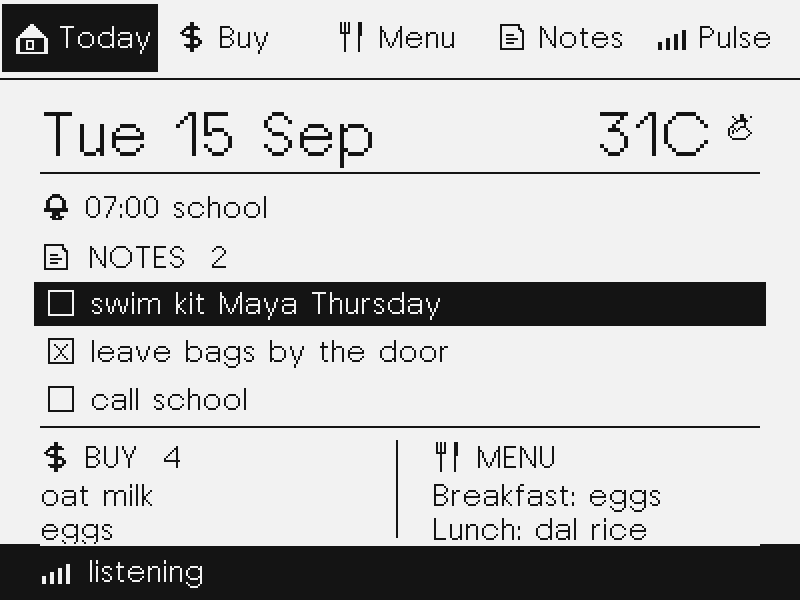
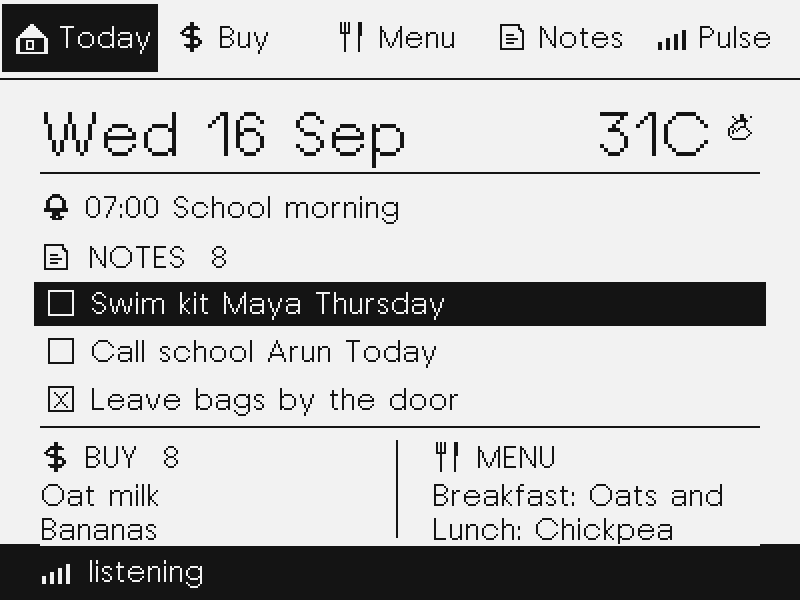
Refresh simulator demo screenshots

diff --git a/sim/sim_main.cc b/sim/sim_main.cc
@@ -135,38 +135,54 @@ HearthState MakeToday() {
     std::snprintf(s.wifi_status, sizeof(s.wifi_status), "Hearth-demo  -48 dBm");
     std::snprintf(s.hub, sizeof(s.hub), "http://hub.local:8790");
     std::snprintf(s.transcript, sizeof(s.transcript),
-                  "we are out of oat milk");
+                  "add oat milk to the shopping list");
     std::snprintf(s.note, sizeof(s.note), "HEARTH v0.9.1-hearth");
-    std::snprintf(s.date, sizeof(s.date), "Tue 15 Sep");
+    std::snprintf(s.date, sizeof(s.date), "Wed 16 Sep");
     std::snprintf(s.weather, sizeof(s.weather), "31C  partly cloudy  21-31");
     std::snprintf(s.wx, sizeof(s.wx), "partly");
-    std::snprintf(s.meal, sizeof(s.meal), "pasta");
+    std::snprintf(s.meal, sizeof(s.meal), "Noodle soup");
     std::snprintf(s.ack, sizeof(s.ack), "Added oat milk to Buy.");
-    std::snprintf(s.n_buy, sizeof(s.n_buy), "4");
-    std::snprintf(s.n_notes, sizeof(s.n_notes), "2");
-    std::snprintf(s.buy[0], sizeof(s.buy[0]), "oat milk");
-    std::snprintf(s.buy[1], sizeof(s.buy[1]), "eggs");
-    std::snprintf(s.peek_buy[0], sizeof(s.peek_buy[0]), "oat milk");
-    std::snprintf(s.peek_buy[1], sizeof(s.peek_buy[1]), "eggs");
-    std::snprintf(s.peek_menu[0], sizeof(s.peek_menu[0]), "Breakfast: eggs");
-    std::snprintf(s.peek_menu[1], sizeof(s.peek_menu[1]), "Lunch: dal rice");
-    std::snprintf(s.notes[0], sizeof(s.notes[0]), "swim kit  Maya  Thursday");
-    std::snprintf(s.notes[1], sizeof(s.notes[1]), "leave bags by the door");
-    std::snprintf(s.notes[2], sizeof(s.notes[2]), "call school");
-    s.notes_done[1] = true;
-    std::snprintf(s.alarm, sizeof(s.alarm), "07:00 school");
+    std::snprintf(s.n_buy, sizeof(s.n_buy), "8");
+    std::snprintf(s.n_notes, sizeof(s.n_notes), "8");
+    constexpr const char* kBuy[] = {"Oat milk", "Eggs", "Bananas", "Rice", "Tomatoes",
+                                    "Coffee beans", "Dish soap", "Fresh flowers", "Bread", "Olive oil"};
+    for (int i = 0; i < 10; ++i)
+        std::snprintf(s.buy[i], sizeof(s.buy[i]), "%s", kBuy[i]);
+    s.buy_done[1] = true;
+    s.buy_done[8] = true;
+    std::snprintf(s.peek_buy[0], sizeof(s.peek_buy[0]), "Oat milk");
+    std::snprintf(s.peek_buy[1], sizeof(s.peek_buy[1]), "Bananas");
+    std::snprintf(s.peek_menu[0], sizeof(s.peek_menu[0]), "Breakfast: Oats and banana");
+    std::snprintf(s.peek_menu[1], sizeof(s.peek_menu[1]), "Lunch: Chickpea bowls");
+    constexpr const char* kNotes[] = {
+        "Swim kit  Maya  Thursday", "Call school  Arun  Today", "Leave bags by the door",
+        "Water the plants  Saturday", "Library books  Maya  Friday",
+        "Grandma visits on Sunday  Sunday", "Book dentist appointment  Arun  Next week",
+        "Rain jackets  Tomorrow", "Spare key is in the drawer", "Put recycling out  Wednesday"};
+    for (int i = 0; i < 10; ++i)
+        std::snprintf(s.notes[i], sizeof(s.notes[i]), "%s", kNotes[i]);
+    s.notes_done[2] = true;
+    s.notes_done[9] = true;
+    std::snprintf(s.alarm, sizeof(s.alarm), "07:00 School morning");
     s.alarm_h = 7;
     s.alarm_m = 0;
-    std::snprintf(s.menu[0], sizeof(s.menu[0]), "Breakfast: eggs");
-    std::snprintf(s.menu_id[0], sizeof(s.menu_id[0]), "tue/breakfast");
-    std::snprintf(s.menu[1], sizeof(s.menu[1]), "Lunch: dal rice");
-    std::snprintf(s.menu_id[1], sizeof(s.menu_id[1]), "tue/lunch");
-    std::snprintf(s.menu[2], sizeof(s.menu[2]), "Dinner: pasta");
-    std::snprintf(s.menu_id[2], sizeof(s.menu_id[2]), "tue/dinner");
-    std::snprintf(s.menu[3], sizeof(s.menu[3]), "Dinner: pasta");
-    std::snprintf(s.menu_id[3], sizeof(s.menu_id[3]), "wed/dinner");
-    std::snprintf(s.menu[4], sizeof(s.menu[4]), "Lunch: lemon rice");
-    std::snprintf(s.menu_id[4], sizeof(s.menu_id[4]), "thu/lunch");
+    constexpr const char* kDays[] = {"mon", "tue", "wed", "thu", "fri", "sat", "sun"};
+    constexpr const char* kMeals[][3] = {
+        {"Yogurt and berries", "Dal rice", "Pasta and salad"},
+        {"Toast and eggs", "Veg wraps", "Paneer curry"},
+        {"Oats and banana", "Chickpea bowls", "Noodle soup"},
+        {"Idli and chutney", "Lemon rice", "Roast vegetables"},
+        {"Fruit and granola", "Sandwiches", "Pizza night"},
+        {"Pancakes", "Leftover bowls", "Tacos"},
+        {"Poha", "Family lunch", "Khichdi"}};
+    constexpr const char* kSlots[] = {"breakfast", "lunch", "dinner"};
+    constexpr const char* kLabels[] = {"Breakfast", "Lunch", "Dinner"};
+    for (int day = 0; day < 7; ++day)
+        for (int slot = 0; slot < 3; ++slot) {
+            const int i = day * 3 + slot;
+            std::snprintf(s.menu[i], sizeof(s.menu[i]), "%s: %s", kLabels[slot], kMeals[day][slot]);
+            std::snprintf(s.menu_id[i], sizeof(s.menu_id[i]), "%s/%s", kDays[day], kSlots[slot]);
+        }
     return s;
 }
 
@@ -174,8 +190,6 @@ HearthState MakeBuy() {
     HearthState s = MakeToday();
     s.screen = HearthScreen::kBuy;
     s.ack[0] = '\0';
-    std::snprintf(s.buy[0], sizeof(s.buy[0]), "oat milk");
-    std::snprintf(s.buy[1], sizeof(s.buy[1]), "eggs");
     return s;
 }
 
@@ -190,8 +204,6 @@ HearthState MakeNotes() {
     HearthState s = MakeToday();
     s.screen = HearthScreen::kNotes;
     s.ack[0] = '\0';
-    std::snprintf(s.notes[0], sizeof(s.notes[0]), "swim kit  Maya  Thursday");
-    std::snprintf(s.notes[1], sizeof(s.notes[1]), "leave bags by the door");
     return s;
 }
 
@@ -220,10 +232,13 @@ HearthState MakeFiling() {
 
 HearthState MakeRemoved() {
     HearthState s = MakeBuy();
-    std::snprintf(s.n_buy, sizeof(s.n_buy), "1");
-    std::snprintf(s.buy[0], sizeof(s.buy[0]), "eggs");
-    s.buy[1][0] = '\0';
-    std::snprintf(s.ack, sizeof(s.ack), "Removed oat milk.");
+    std::snprintf(s.n_buy, sizeof(s.n_buy), "7");
+    for (int i = 0; i < 9; ++i) {
+        std::memcpy(s.buy[i], s.buy[i + 1], sizeof(s.buy[i]));
+        s.buy_done[i] = s.buy_done[i + 1];
+    }
+    s.buy[9][0] = '\0';
+    std::snprintf(s.ack, sizeof(s.ack), "Removed Oat milk.");
     return s;
 }
 

diff --git a/README.md b/README.md
@@ -8,6 +8,9 @@ the device.
 
 ![Today screen with notes and Buy/Menu preview](docs/img/01-today.png)
 
+Screens from the current demo board, rendered by the host simulator using the
+firmware's canvas and screen code.
+
 - **Today:** prominent notes, the next two Buy items and upcoming meals, local
   weather, and the next alarm.
 - **Buy and Notes:** shopping, chores, packing, and reminders with owners,
@@ -18,9 +21,23 @@ the device.
 - **Responsive recording:** hold the front button to speak. Upload and filing
   happen in the background, so pages remain usable and more requests can queue.
 
-| Menu | Notes |
+| Buy | Menu |
 |---|---|
-| ![Weekday meal plan](docs/img/03-menu.png) | ![Checkable household notes](docs/img/04-notes.png) |
+| ![Demo shopping list with checked items](docs/img/02-buy.png) | ![Demo weekday meal plan](docs/img/03-menu.png) |
+
+| Notes | Pulse |
+|---|---|
+| ![Demo household notes with owners and check marks](docs/img/04-notes.png) | ![Device connection, battery, and last-heard status](docs/img/05-pulse.png) |
+
+Hold the front button to record; after release, the request files in the
+background and the board updates:
+
+| Listening | Filing | Updated |
+|---|---|---|
+| ![Listening status on Today](docs/img/06-listen.png) | ![Filing status on Today](docs/img/07-filing.png) | ![Buy list after voice removal](docs/img/08-removed.png) |
+
+See the [developer reel](promo/hearth-developer-reel.mp4) and its
+[voiceover transcript](promo/reel-transcript.md) for an animated walkthrough.
 
 ## Flash and use
 
